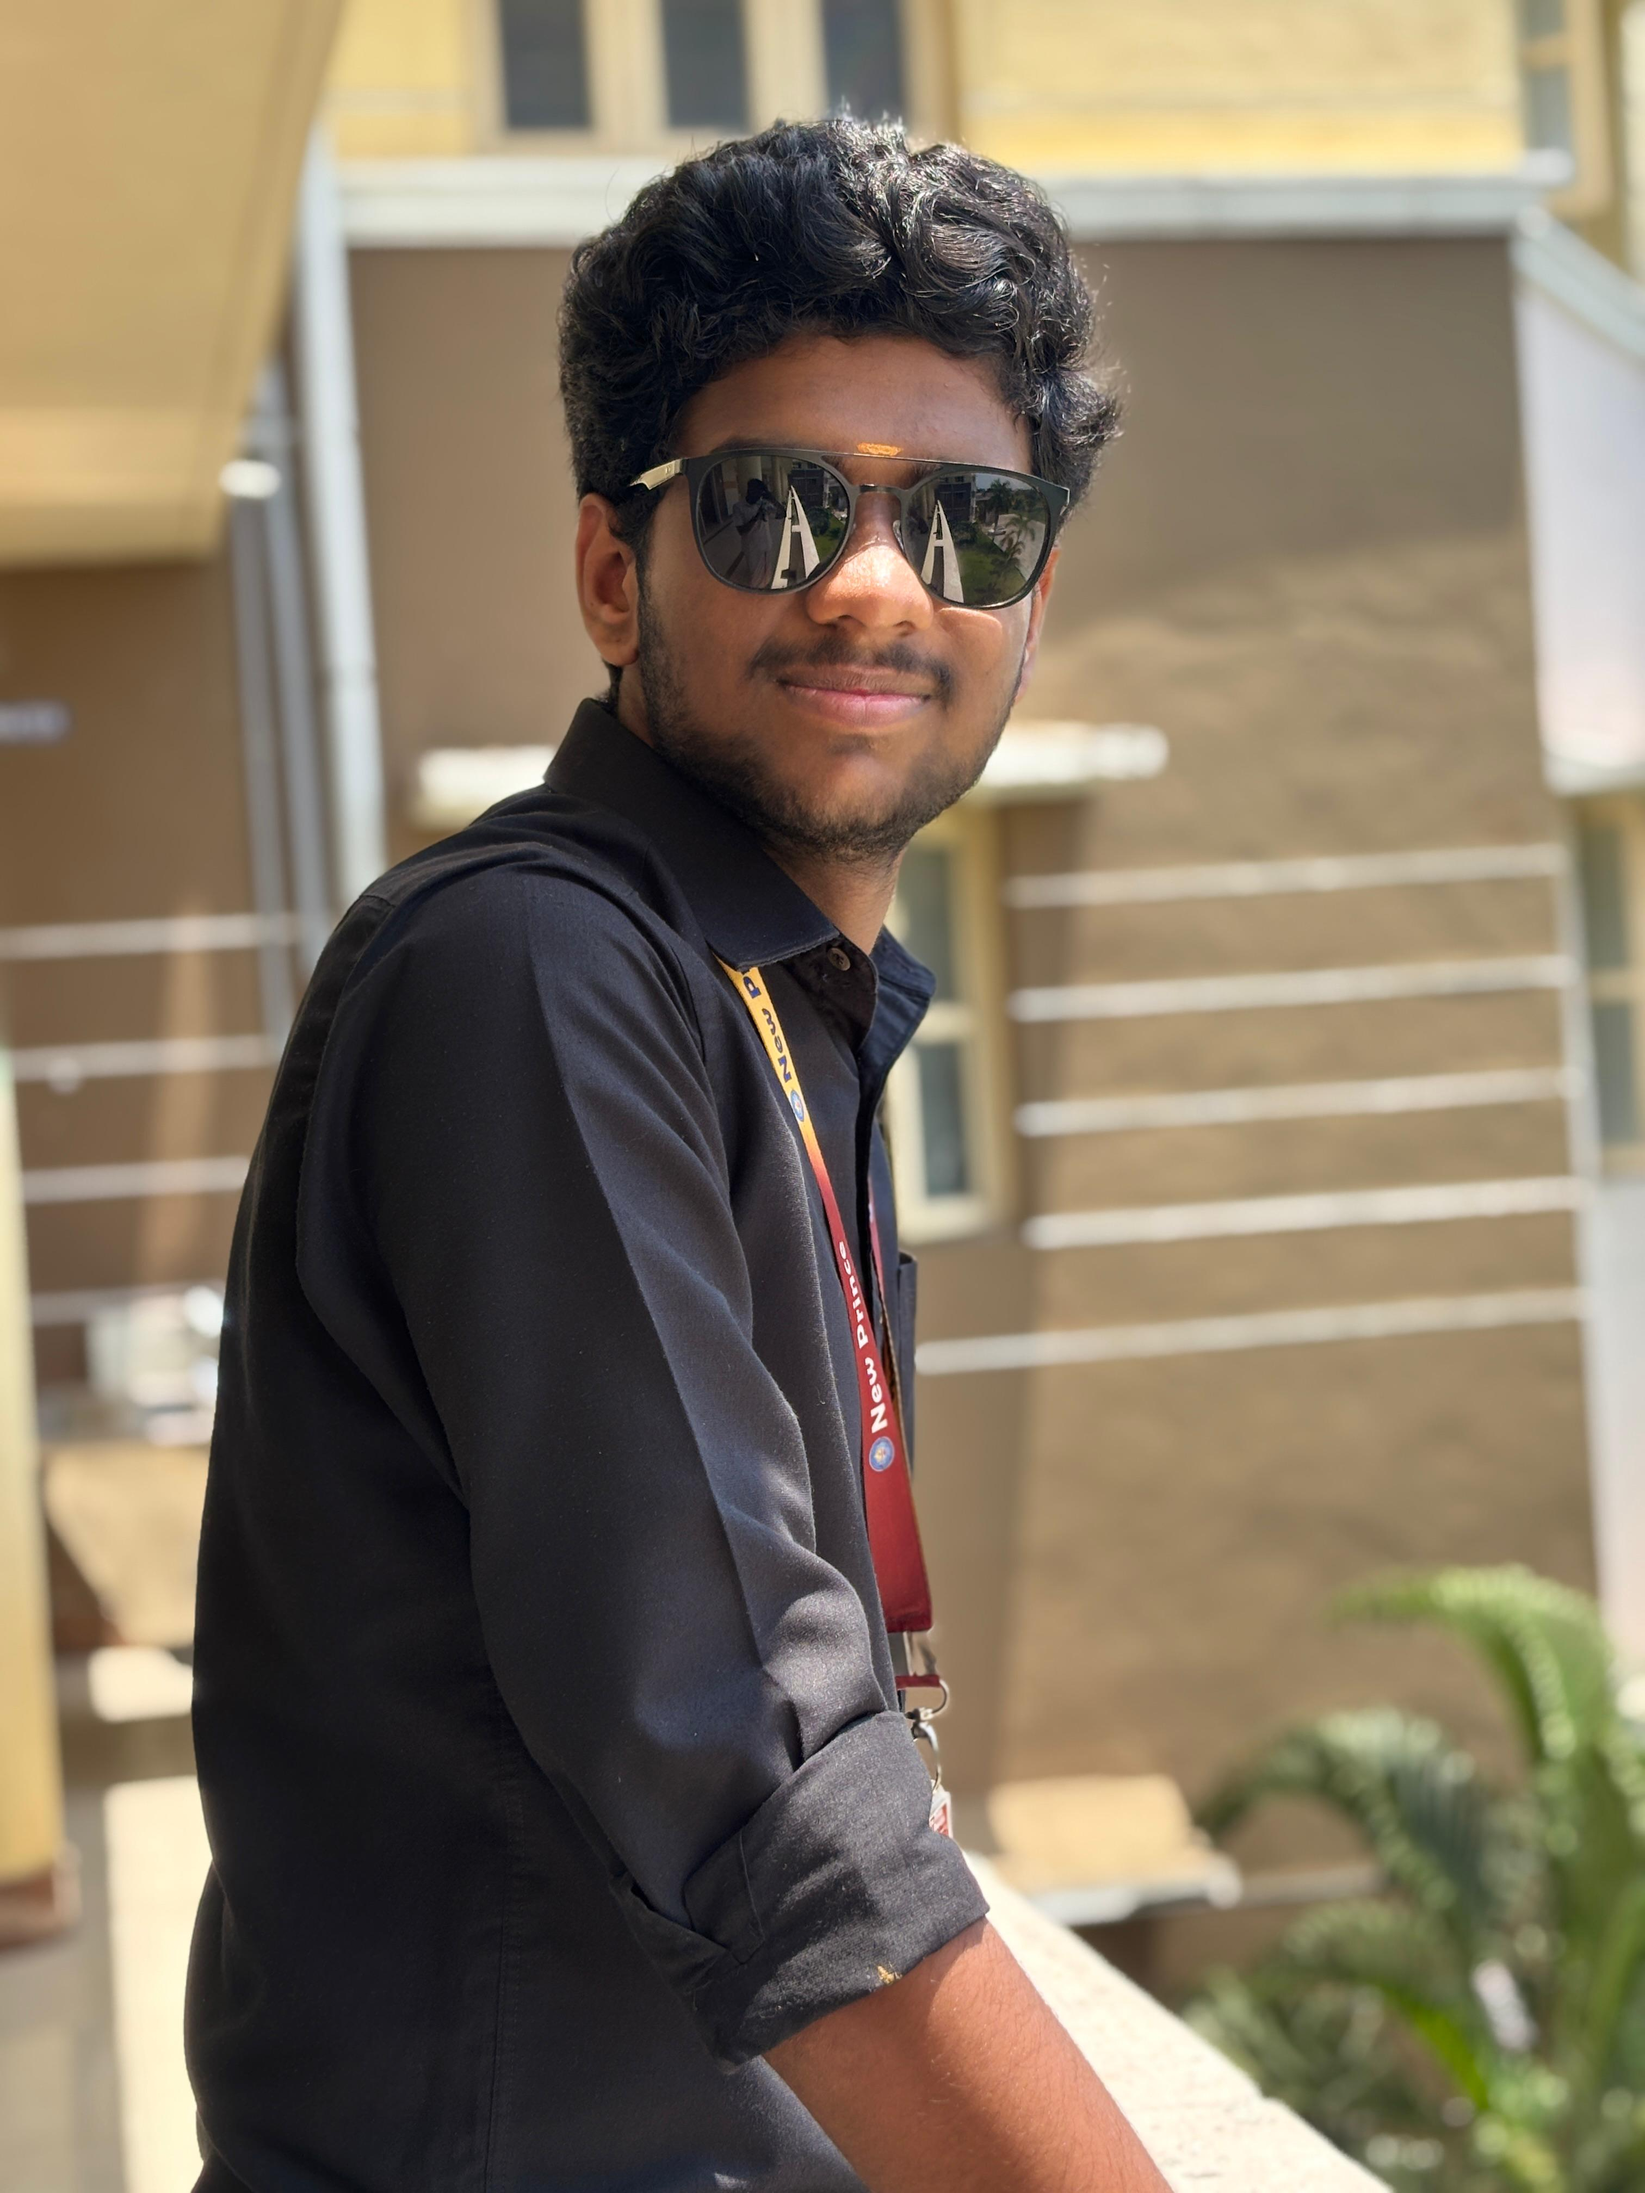
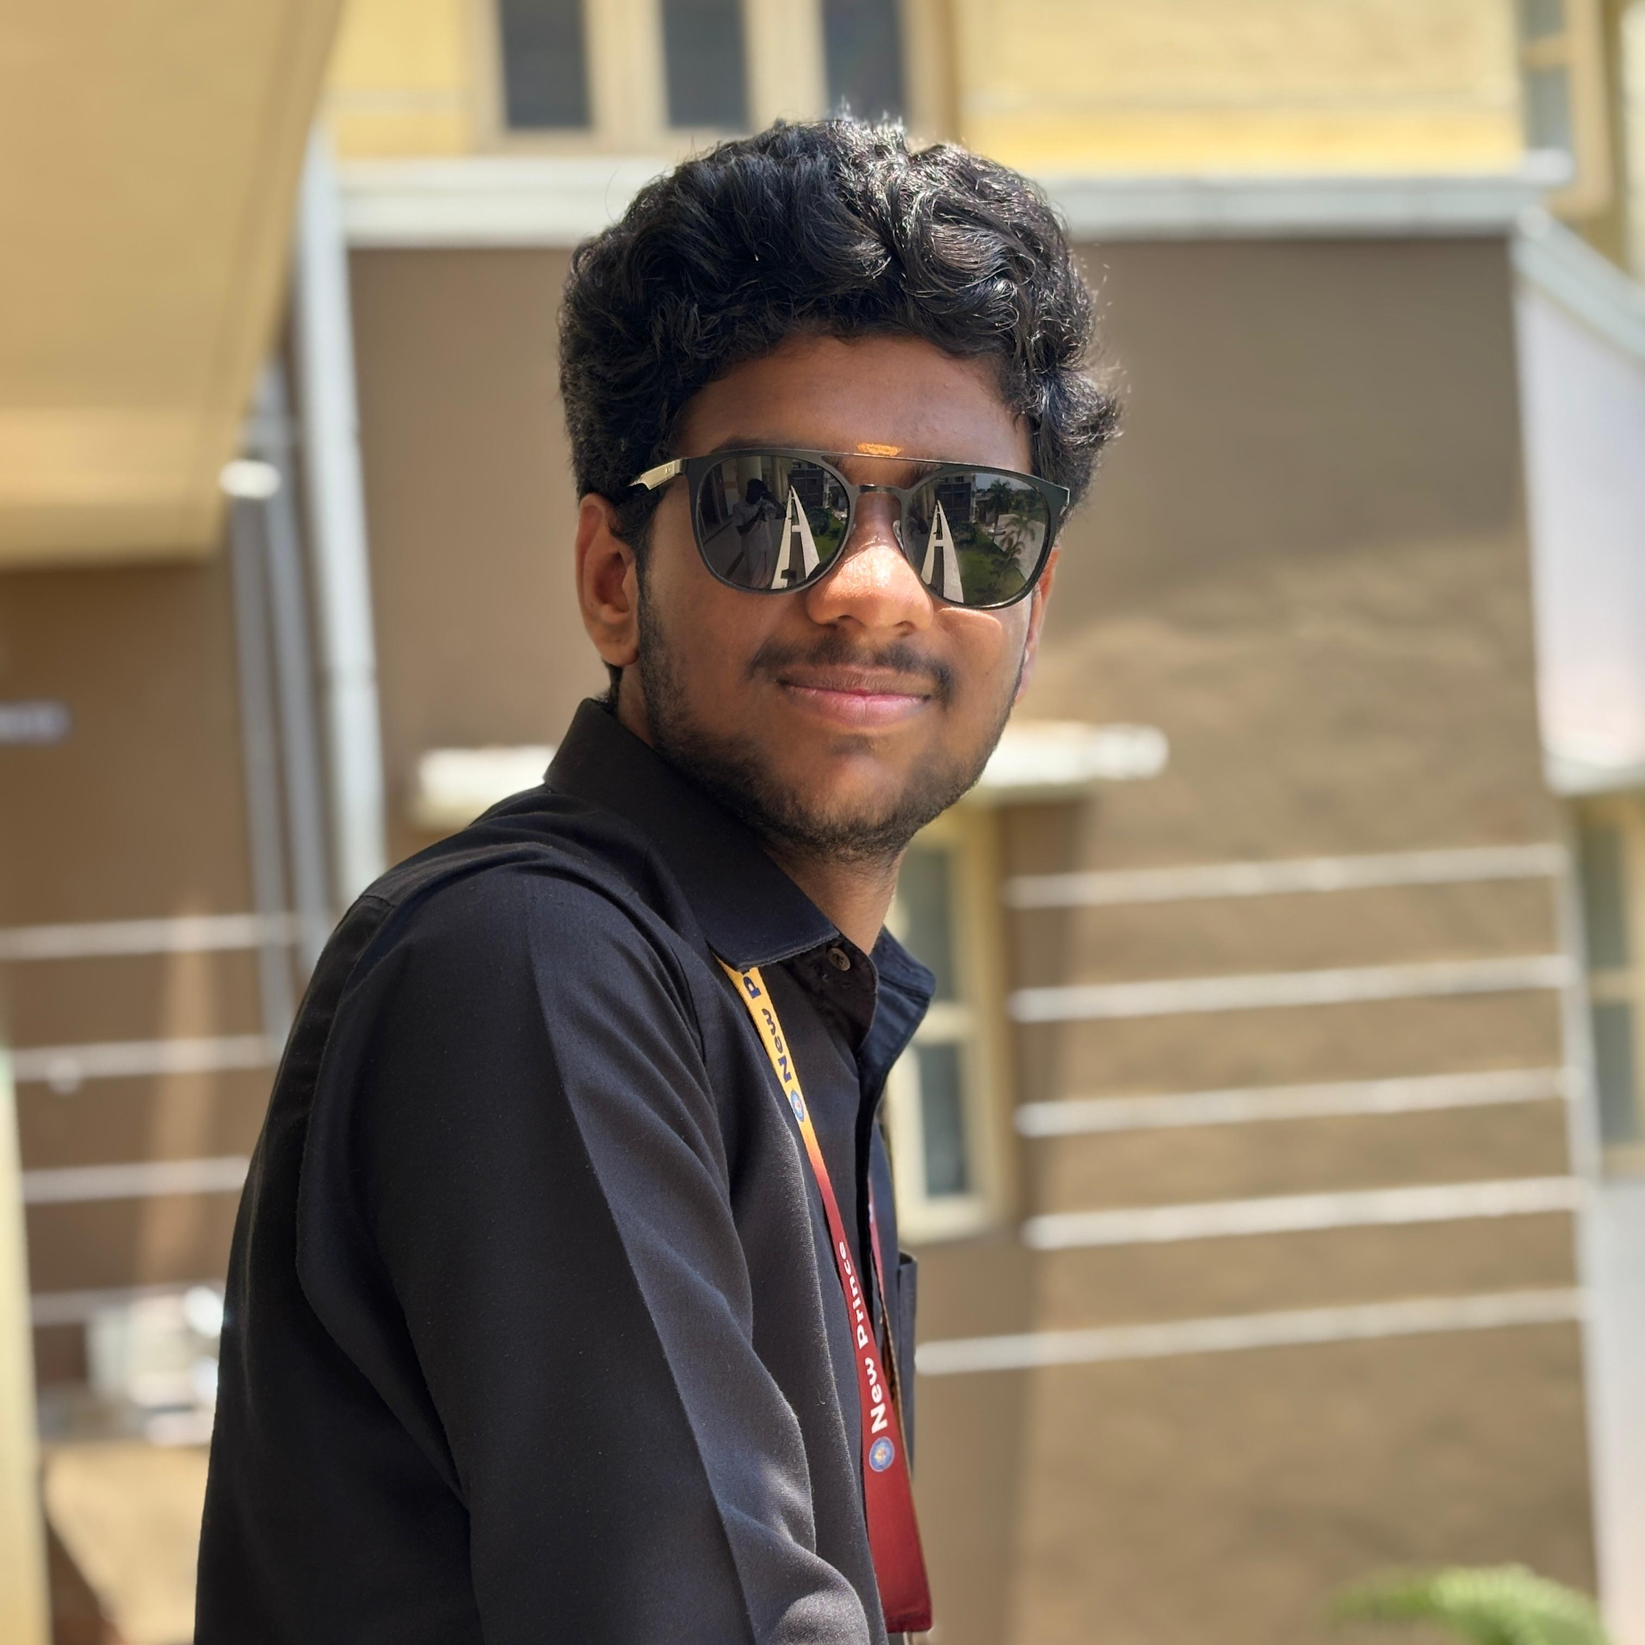
Update team images and fix asset paths in about.html
Corrected image paths in about.html to reference assets/teams instead of assets/images/teams. Added new images for Balamurugan and Suriya, and updated images for Aniruth and Vishal.

diff --git a/about.html b/about.html
@@ -314,7 +314,7 @@
       </p>
       <div style="text-align: center; margin-bottom: 30px">
         <img
-          src="assets/images/cypherixLogo.png"
+          src="assets/cypherixLogo.png"
           alt="Cypherix Logo"
           style="height: 120px; cursor: pointer"
           ondblclick="window.location.href='/fla.html'"
@@ -329,7 +329,7 @@
           <div class="team-member">
             <div class="team-circle">
               <img
-                src="assets/images/teams/balamurugan.jpg"
+                src="assets/teams/balamurugan.jpg"
                 alt="Dr. Balamurugan"
               />
             </div>
@@ -350,7 +350,7 @@
         <div class="team-grid">
           <div class="team-member">
             <div class="team-circle">
-              <img src="assets/images/teams/kiruthika.jpg" alt="Kiruthika R" />
+              <img src="assets/teams/kiruthika.jpg" alt="Kiruthika R" />
             </div>
             <div class="team-name">Kiruthika R</div>
             <div class="team-role">Overall Head</div>
@@ -375,7 +375,7 @@
           <div class="team-grid">
             <div class="team-member">
               <div class="team-circle">
-                <img src="assets/images/teams/joshva.jpg" alt="Joshva" />
+                <img src="assets/teams/joshva.jpg" alt="Joshva" />
               </div>
               <div class="team-name">Joshva</div>
               <div class="team-role">President</div>
@@ -394,7 +394,7 @@
 
             <div class="team-member">
               <div class="team-circle">
-                <img src="assets/images/teams/suriya.jpg" alt="Suriya" />
+                <img src="assets/teams/suriya.jpg" alt="Suriya" />
               </div>
               <div class="team-name">Suriya</div>
               <div class="team-role">Vice President</div>
@@ -417,7 +417,7 @@
             <div class="team-member">
               <div class="team-circle">
                 <img
-                  src="assets/images/teams/jenifer.jpg"
+                  src="assets/teams/jenifer.jpg"
                   alt="Jenifer Annise"
                 />
               </div>
@@ -435,7 +435,7 @@
 
             <div class="team-member">
               <div class="team-circle">
-                <img src="assets/images/teams/david.jpg" alt="David Raj" />
+                <img src="assets/teams/david.jpg" alt="David Raj" />
               </div>
               <div class="team-name">David Raj</div>
               <div class="team-role">Treasurer</div>
@@ -457,7 +457,7 @@
           <div class="team-grid">
             <div class="team-member">
               <div class="team-circle">
-                <img src="assets/images/teams/sofiya.jpg" alt="Sofiya" />
+                <img src="assets/teams/sofiya.jpg" alt="Sofiya" />
               </div>
               <div class="team-name">Sofiya</div>
               <div class="team-role">Joint Secretary</div>
@@ -473,7 +473,7 @@
 
             <div class="team-member">
               <div class="team-circle">
-                <img src="assets/images/teams/dhanasri.jpg" alt="Dhanasri" />
+                <img src="assets/teams/dhanasri.jpg" alt="Dhanasri" />
               </div>
               <div class="team-name">Dhanasri</div>
               <div class="team-role">Joint Secretary</div>
@@ -495,7 +495,7 @@
           <div class="team-grid">
             <div class="team-member">
               <div class="team-circle">
-                <img src="assets/images/teams/aniruth.jpg" alt="Aniruth" />
+                <img src="assets/teams/aniruth.jpg" alt="Aniruth" />
               </div>
               <div class="team-name">Aniruth</div>
               <div class="team-role">Joint Treasurer</div>
@@ -511,7 +511,7 @@
 
             <div class="team-member">
               <div class="team-circle">
-                <img src="assets/images/teams/vishal.jpg" alt="Vishal" />
+                <img src="assets/teams/vishal.jpg" alt="Vishal" />
               </div>
               <div class="team-name">Vishal</div>
               <div class="team-role">Joint Treasurer</div>
